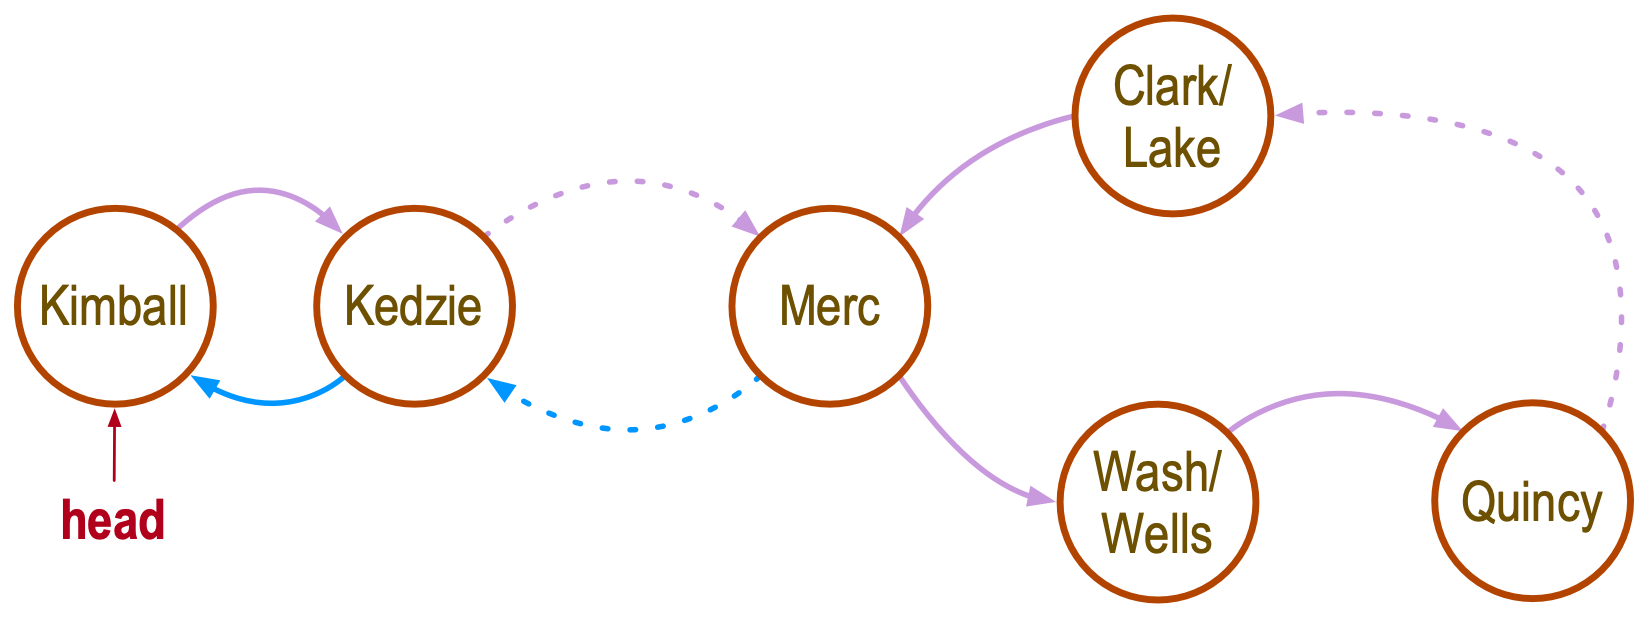
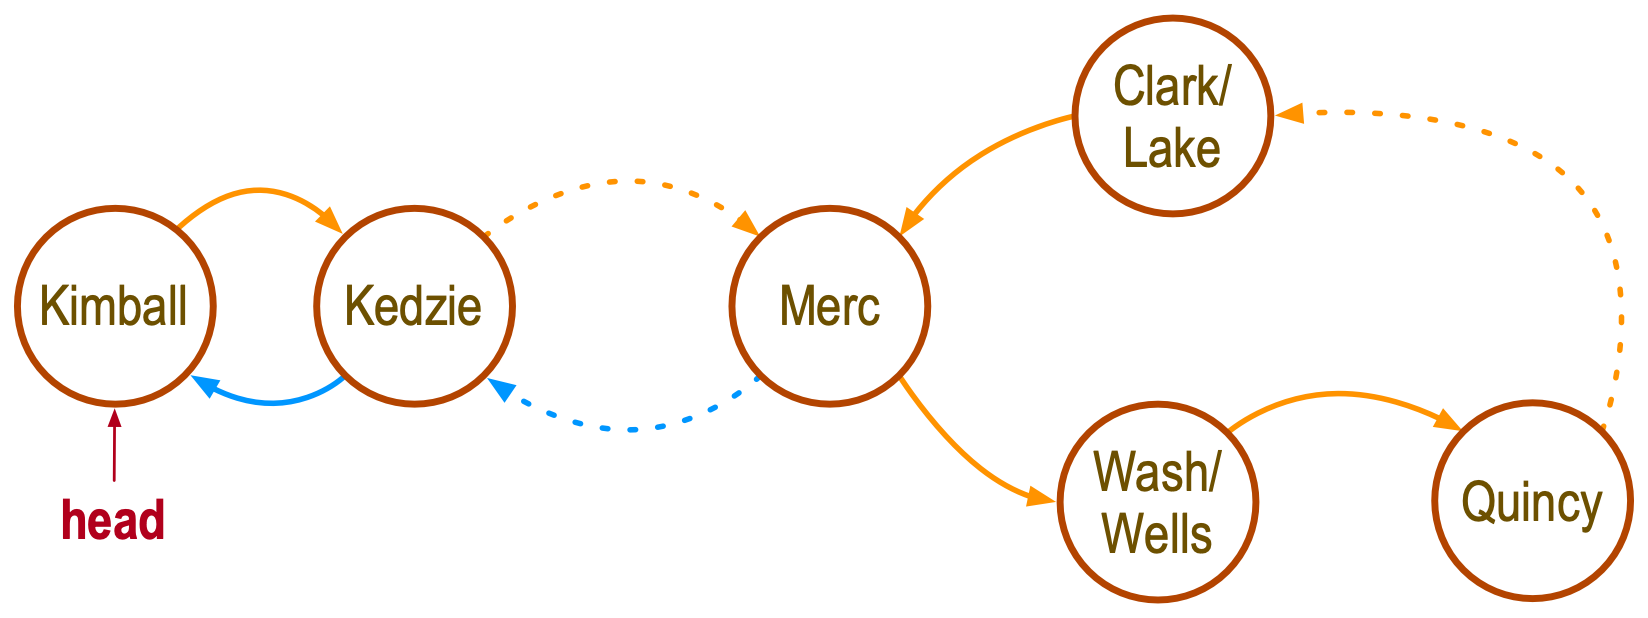
Lab setup for 01 JUL 2021

diff --git a/ChooChoo/CTA/src/Lab.MD b/ChooChoo/CTA/src/Lab.MD
@@ -14,6 +14,9 @@ After
 they go around the loop, trains return to the Merc, and travel towards 
 Kimball, where their run ends.
 
-<img src="BrownLine.png" alt="drawing" width="400" align="right" />
+<img src="BrownLine.png" alt="drawing" width="500" align="right" />
 A simpified map of the Brown Line is shown to the Lab. The dotted lines 
-indicate stations we are omitting for simplicity. 
+indicate stations we are omitting for simplicity. The path colors indicate 
+direction of travel. The purple path shows the outbound travel. The orange 
+path shows the route once the train returns to the Merc station and start 
+the inbound trip back to Kimball.
